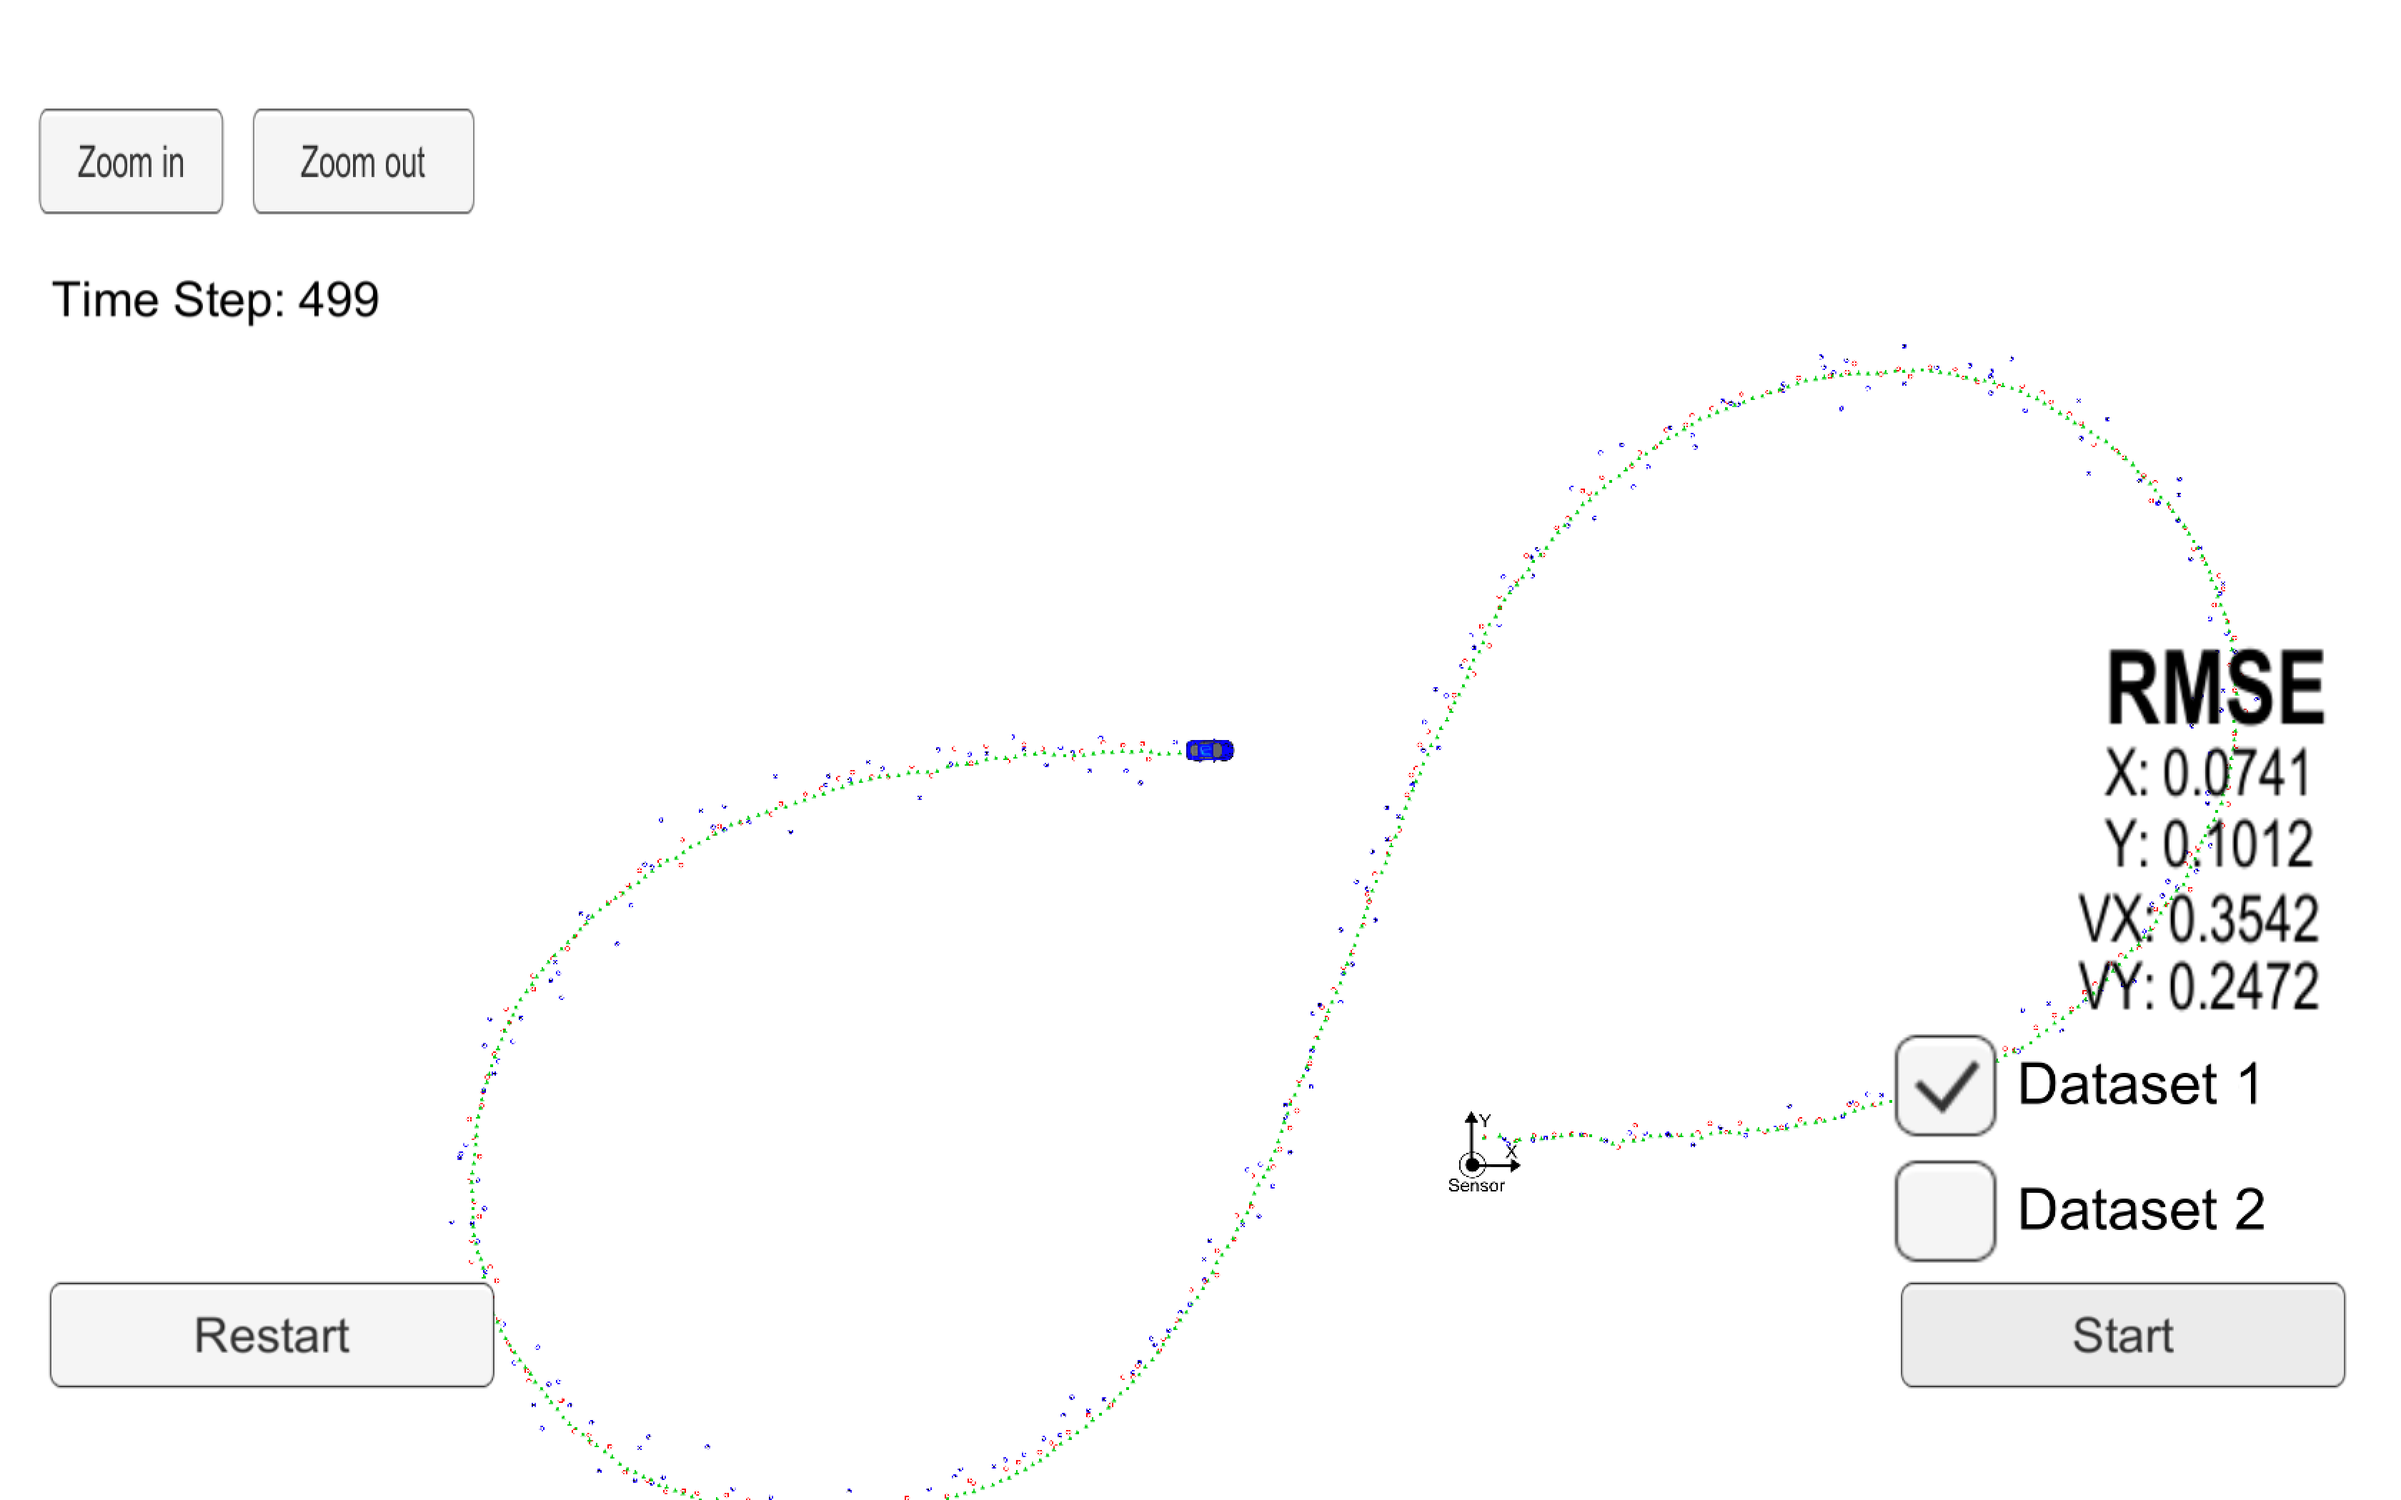
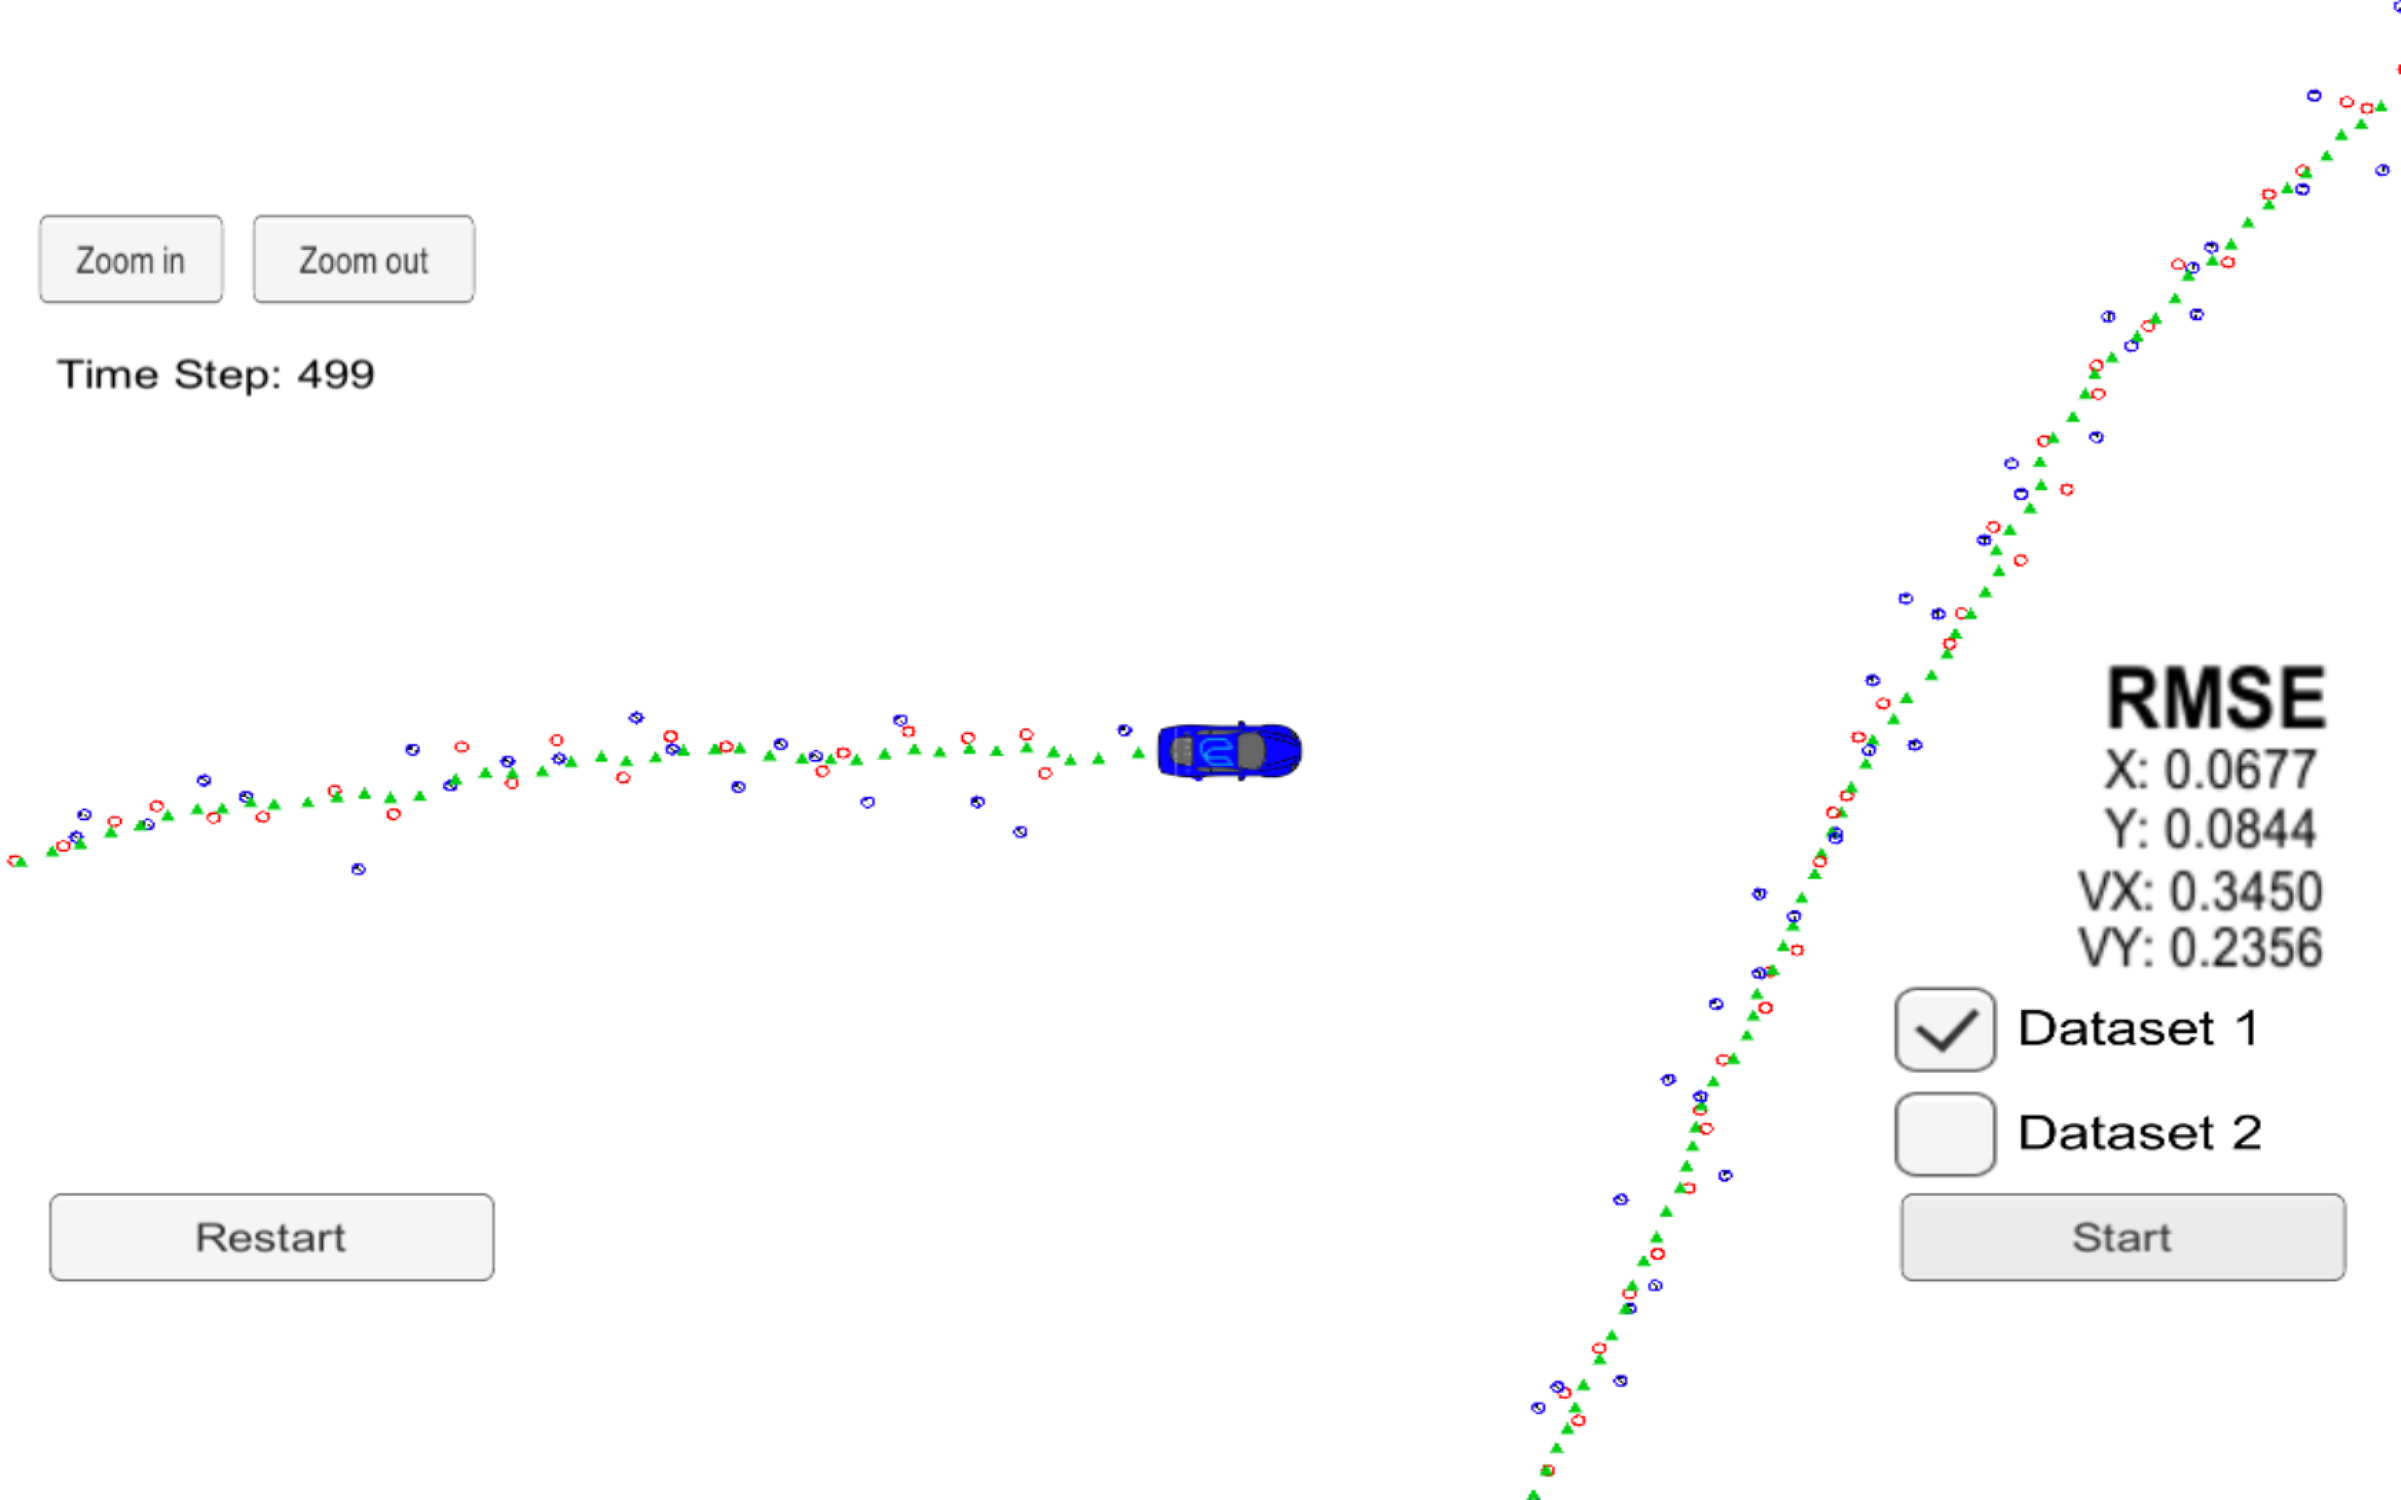
miner changes for more accuracy

diff --git a/src/ukf.cpp b/src/ukf.cpp
@@ -26,10 +26,10 @@ UKF::UKF() {
   P_ = Eigen::MatrixXd(5, 5);
 
   // Process noise standard deviation longitudinal acceleration in m/s^2
-  std_a_ = 0.2; //updted according to accuracy
+  std_a_ = 1.5; //updted according to accuracy
 
   // Process noise standard deviation yaw acceleration in rad/s^2
-    std_yawdd_ = 0.2; //updted according to accuracy
+  std_yawdd_ = 1.5; //updted according to accuracy
 
   //DO NOT MODIFY measurement noise values below these are provided by the sensor manufacturer.
   // Laser measurement noise standard deviation position1 in m
